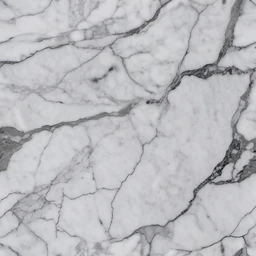
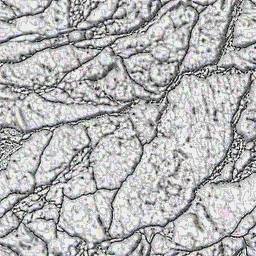
Mármol: texturas de pieza propias, no las mismas que las casillas
Las piezas de mármol usaban exactamente los mismos archivos que las
casillas, así que se camuflaban con el tablero (se notaba sobre todo en
el tablero grande del análisis). Se generan desde la misma piedra,
aclarada (blancas) u oscurecida (negras) al 25 % de la textura y con
contraste local (CLAHE 4×4, maxSlope 3): las vetas siguen viéndose y la
pieza se separa de la casilla. 256 px, WebP q90.

Receta (sharp): linear(0.25, 191) para blancas y linear(0.25, 0) para
negras, después clahe({ width: 4, height: 4, maxSlope: 3 }).

diff --git a/src/pieces/textures.ts b/src/pieces/textures.ts
@@ -17,6 +17,8 @@ export const TEXTURES: Record<MaterialSetId, MaterialTextures> = {
     white: require('../../assets/texturas/madera-pieza-blanca.webp'),
     black: require('../../assets/texturas/madera-pieza-negra.webp'),
   },
+  // Las piezas usan una versión aclarada (blancas) u oscurecida (negras) de la misma piedra,
+  // con contraste local (CLAHE): las vetas se ven sin que la pieza se camufle con la casilla.
   marmol: {
     light: require('../../assets/texturas/marmol-casilla-clara.webp'),
     dark: require('../../assets/texturas/marmol-casilla-oscura.webp'),
